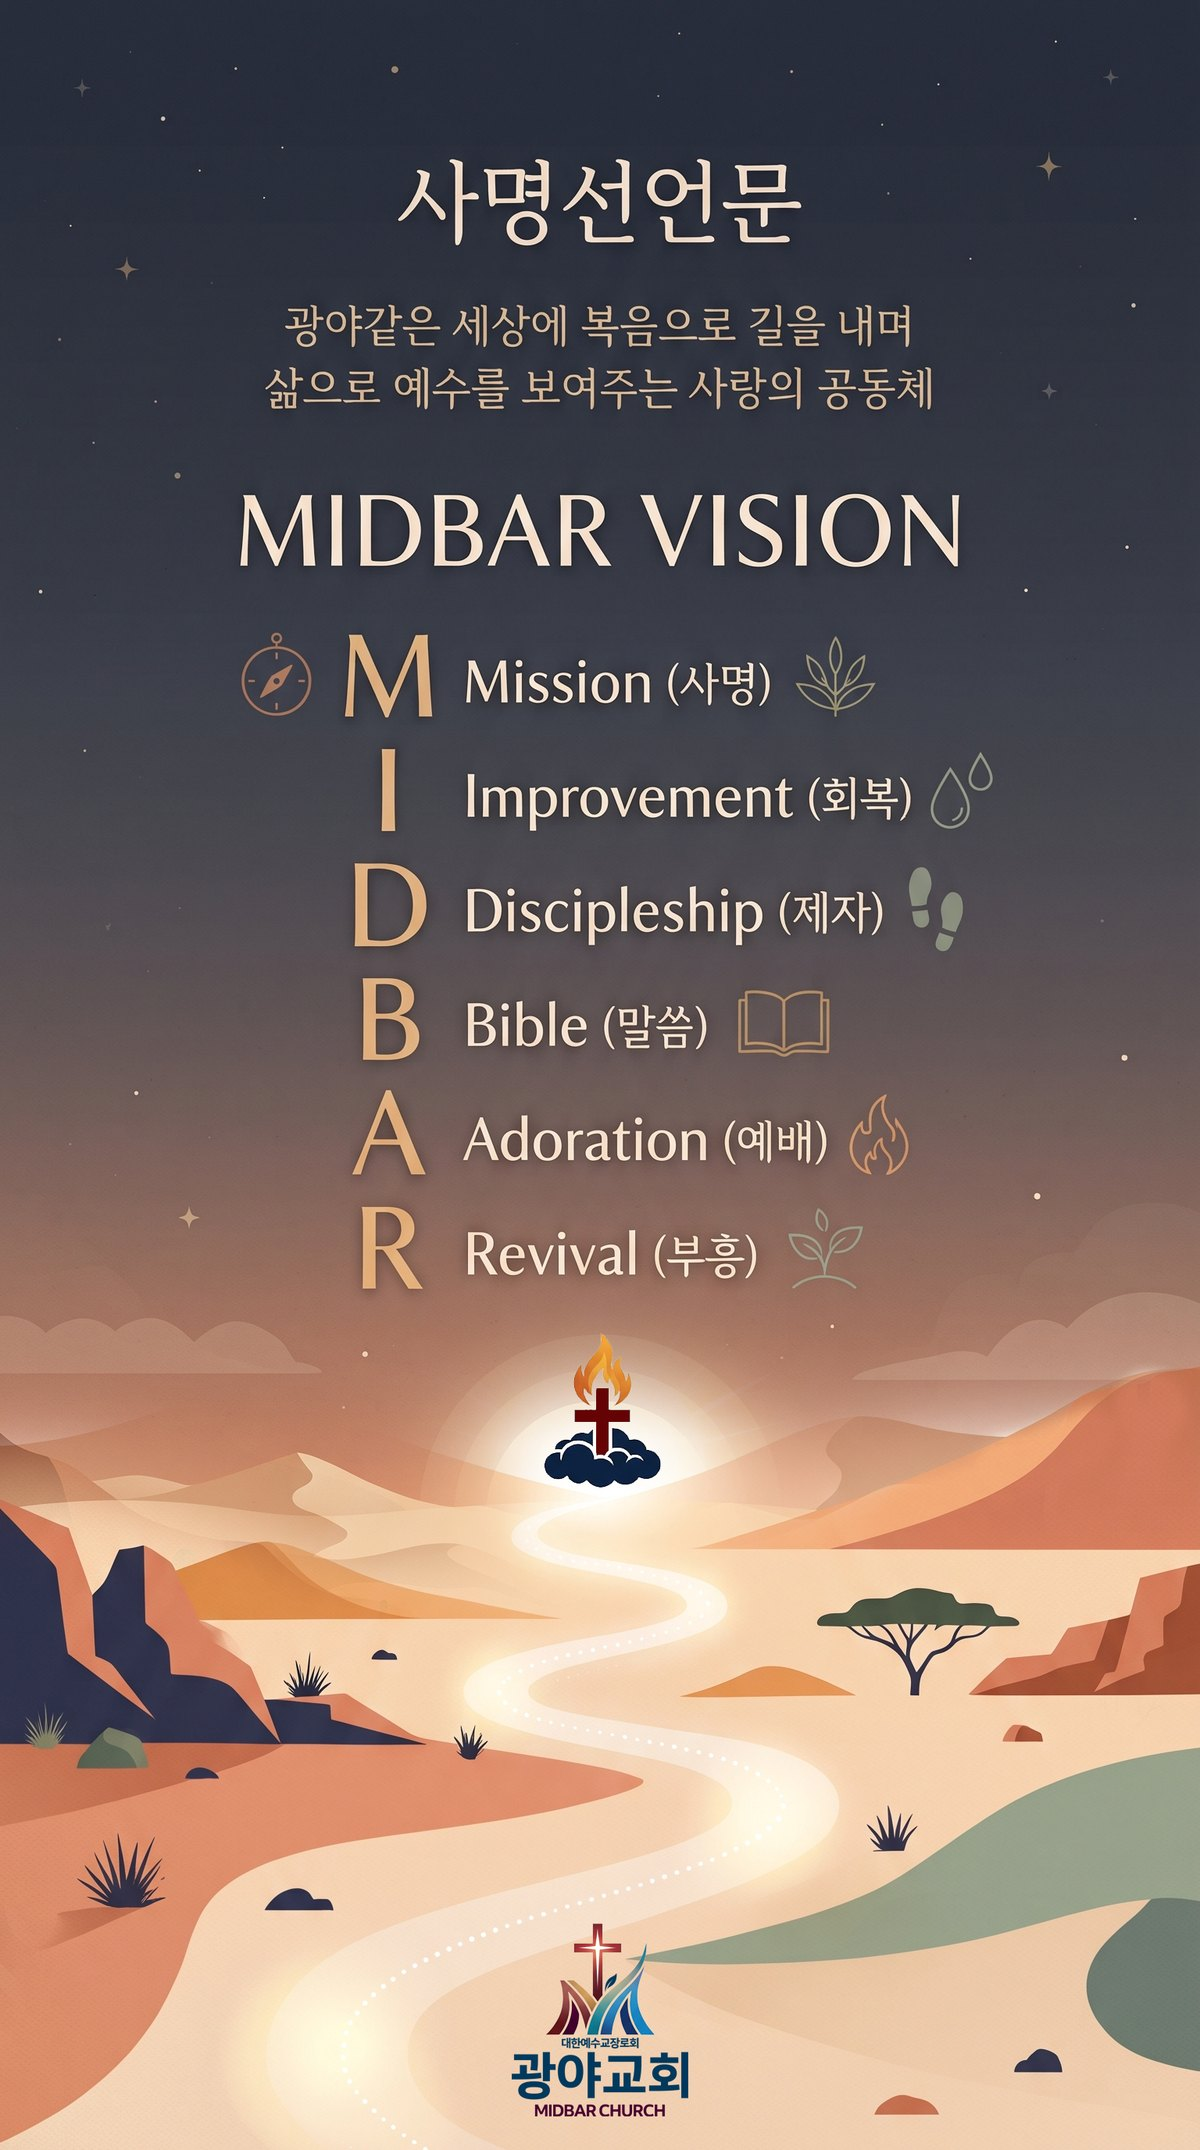
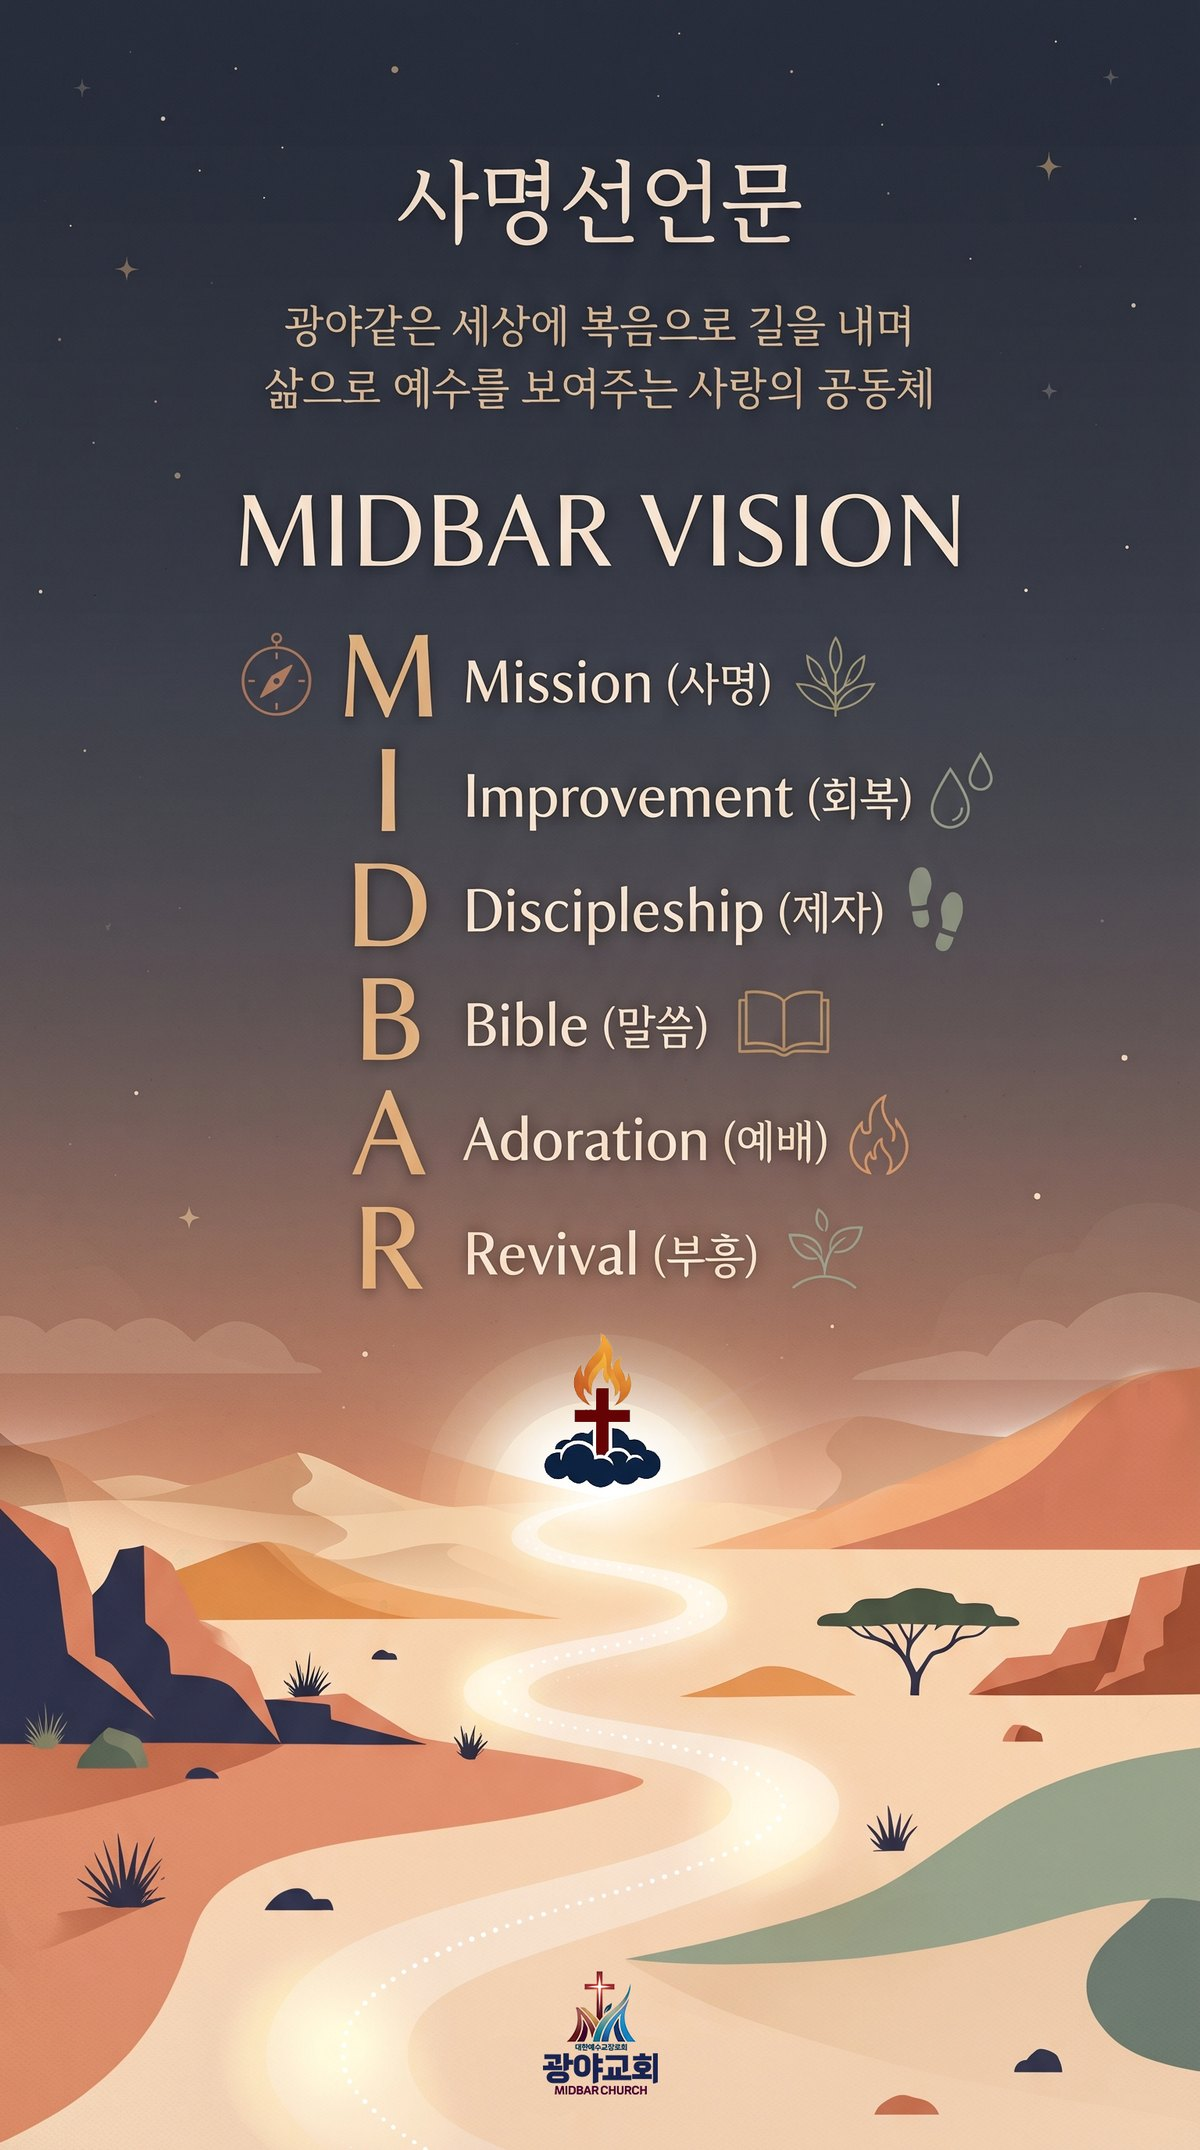
사명선언문·MIDBAR VISION 그림을 새 로고 버전으로 교체
Claude-Session: https://claude.ai/code/session_01XdM4BBDA2kUD7tYbW4mUPe

Changed region(s): [[0.4317, 0.9037, 0.5858, 0.9972]]

diff --git a/index.html b/index.html
@@ -817,7 +817,7 @@ footer .wrap{padding-block:56px 48px}
       <div><span class="k">사명</span><h2>사명선언문</h2></div>
       <div class="prose">
         <p class="lead">광야같은 세상에 복음으로 길을 내며<br>삶으로 예수를 보여주는 사랑의 공동체</p>
-        <figure class="about-fig"><button type="button" class="zoom" data-zoom="about/mission.jpg" data-zoomt="사명선언문"><img src="about/mission.jpg" alt="사명선언문: 광야같은 세상에 복음으로 길을 내며 삶으로 예수를 보여주는 사랑의 공동체. MIDBAR VISION — Mission(사명), Improvement(회복), Discipleship(제자), Bible(말씀), Adoration(예배), Revival(부흥)" loading="lazy" width="1200" height="2150"></button></figure>
+        <figure class="about-fig"><button type="button" class="zoom" data-zoom="about/mission.jpg?v=2" data-zoomt="사명선언문"><img src="about/mission.jpg?v=2" alt="사명선언문: 광야같은 세상에 복음으로 길을 내며 삶으로 예수를 보여주는 사랑의 공동체. MIDBAR VISION — Mission(사명), Improvement(회복), Discipleship(제자), Bible(말씀), Adoration(예배), Revival(부흥)" loading="lazy" width="1200" height="2150"></button></figure>
       </div>
     </div>
     <div id="sec-about-vision" class="block block-grid">
@@ -825,7 +825,7 @@ footer .wrap{padding-block:56px 48px}
       <div class="prose">
         <p class="lead">광야같은 세상에 복음을 전하며(M) 삶을 회복한(I) 그리스도의 제자(D)가 되어 말씀(B)과 예배(A)로 부흥(R)의 길을 만드는 교회입니다.</p>
         <ul class="vision"><li><i>M</i><span><b>Mission <small>(사명)</small></b>우리는 뜨거운 사명감으로 광야같은 세상에 복음을 전하여 영혼을 구원하는 일에 일평생 헌신하는 사명공동체입니다.</span></li><li><i>I</i><span><b>Improvement <small>(회복)</small></b>우리는 메마른 광야의 오아시스와 같이 상한 영혼과 병든 육신들이 치유되는 기적을 맛보는 회복공동체입니다.</span></li><li><i>D</i><span><b>Discipleship <small>(제자)</small></b>우리는 예수 그리스도를 본받는 제자로 훈련받아 삶의 현장을 통해 예수 그리스도를 보여주는 제자공동체입니다.</span></li><li><i>B</i><span><b>Bible <small>(말씀)</small></b>우리는 진리의 말씀 위에 굳게 서서 날마다 같은 말씀으로 하나되고 말씀대로 실천하여 승리하는 말씀공동체입니다.</span></li><li><i>A</i><span><b>Adoration <small>(예배)</small></b>우리는 온 맘과 정성을 다해 하나님이 주인 되심을 찬양하고 믿음의 기도를 통해 응답받는 예배공동체입니다.</span></li><li><i>R</i><span><b>Revival <small>(부흥)</small></b>우리는 척박한 광야에 길을 내시는 하나님을 신뢰하며 영적성장과 공동체성장을 함께 이루어가는 부흥공동체입니다.</span></li></ul>
-        <figure class="about-fig"><button type="button" class="zoom" data-zoom="about/vision.jpg" data-zoomt="MIDBAR VISION"><img src="about/vision.jpg" alt="MIDBAR VISION. 광야같은 세상에 복음을 전하며(M) 삶을 회복한(I) 그리스도의 제자(D)가 되어 말씀(B)과 예배(A)로 부흥(R)의 길을 만드는 교회입니다. Mission(사명): 우리는 뜨거운 사명감으로 광야같은 세상에 복음을 전하여 영혼을 구원하는 일에 일평생 헌신하는 사명공동체입니다. Improvement(회복): 우리는 메마른 광야의 오아시스와 같이 상한 영혼과 병든 육신들이 치유되는 기적을 맛보는 회복공동체입니다. Discipleship(제자): 우리는 예수 그리스도를 본받는 제자로 훈련받아 삶의 현장을 통해 예수 그리스도를 보여주는 제자공동체입니다. Bible(말씀): 우리는 진리의 말씀 위에 굳게 서서 날마다 같은 말씀으로 하나되고 말씀대로 실천하여 승리하는 말씀공동체입니다. Adoration(예배): 우리는 온 맘과 정성을 다해 하나님이 주인 되심을 찬양하고 믿음의 기도를 통해 응답받는 예배공동체입니다. Revival(부흥): 우리는 척박한 광야에 길을 내시는 하나님을 신뢰하며 영적성장과 공동체성장을 함께 이루어가는 부흥공동체입니다." loading="lazy" width="1200" height="2150"></button></figure>
+        <figure class="about-fig"><button type="button" class="zoom" data-zoom="about/vision.jpg?v=2" data-zoomt="MIDBAR VISION"><img src="about/vision.jpg?v=2" alt="MIDBAR VISION. 광야같은 세상에 복음을 전하며(M) 삶을 회복한(I) 그리스도의 제자(D)가 되어 말씀(B)과 예배(A)로 부흥(R)의 길을 만드는 교회입니다. Mission(사명): 우리는 뜨거운 사명감으로 광야같은 세상에 복음을 전하여 영혼을 구원하는 일에 일평생 헌신하는 사명공동체입니다. Improvement(회복): 우리는 메마른 광야의 오아시스와 같이 상한 영혼과 병든 육신들이 치유되는 기적을 맛보는 회복공동체입니다. Discipleship(제자): 우리는 예수 그리스도를 본받는 제자로 훈련받아 삶의 현장을 통해 예수 그리스도를 보여주는 제자공동체입니다. Bible(말씀): 우리는 진리의 말씀 위에 굳게 서서 날마다 같은 말씀으로 하나되고 말씀대로 실천하여 승리하는 말씀공동체입니다. Adoration(예배): 우리는 온 맘과 정성을 다해 하나님이 주인 되심을 찬양하고 믿음의 기도를 통해 응답받는 예배공동체입니다. Revival(부흥): 우리는 척박한 광야에 길을 내시는 하나님을 신뢰하며 영적성장과 공동체성장을 함께 이루어가는 부흥공동체입니다." loading="lazy" width="1200" height="2150"></button></figure>
       </div>
     </div>
     <div id="sec-about-logo" class="block block-grid">
